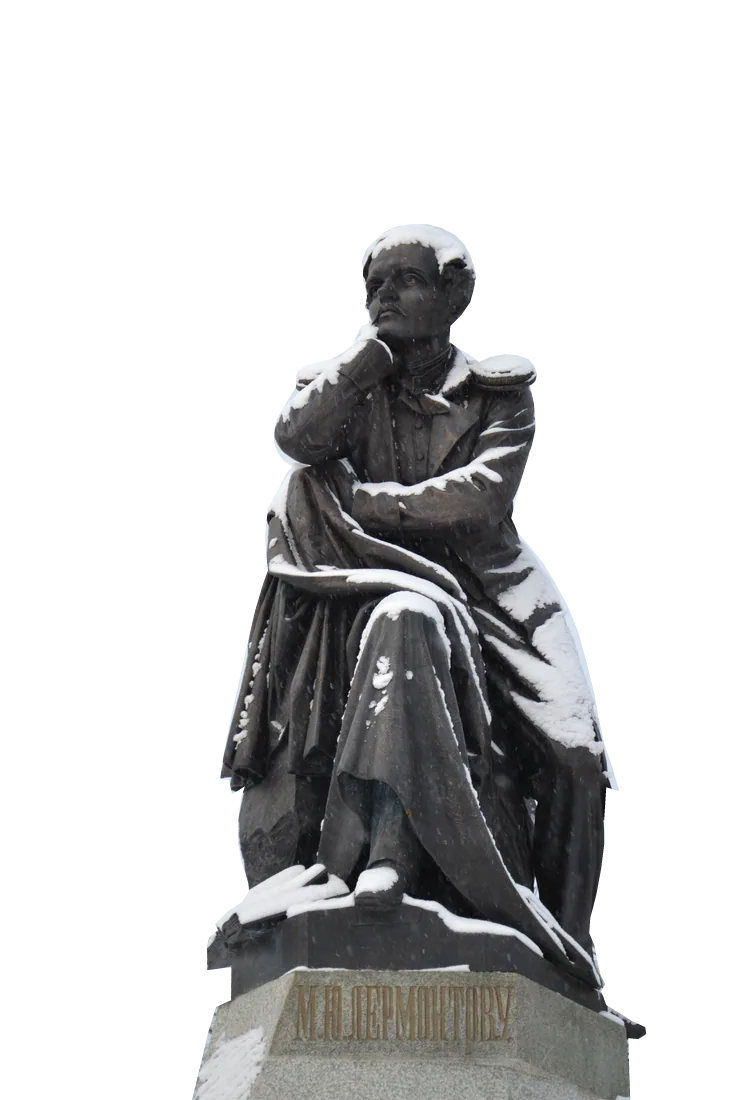
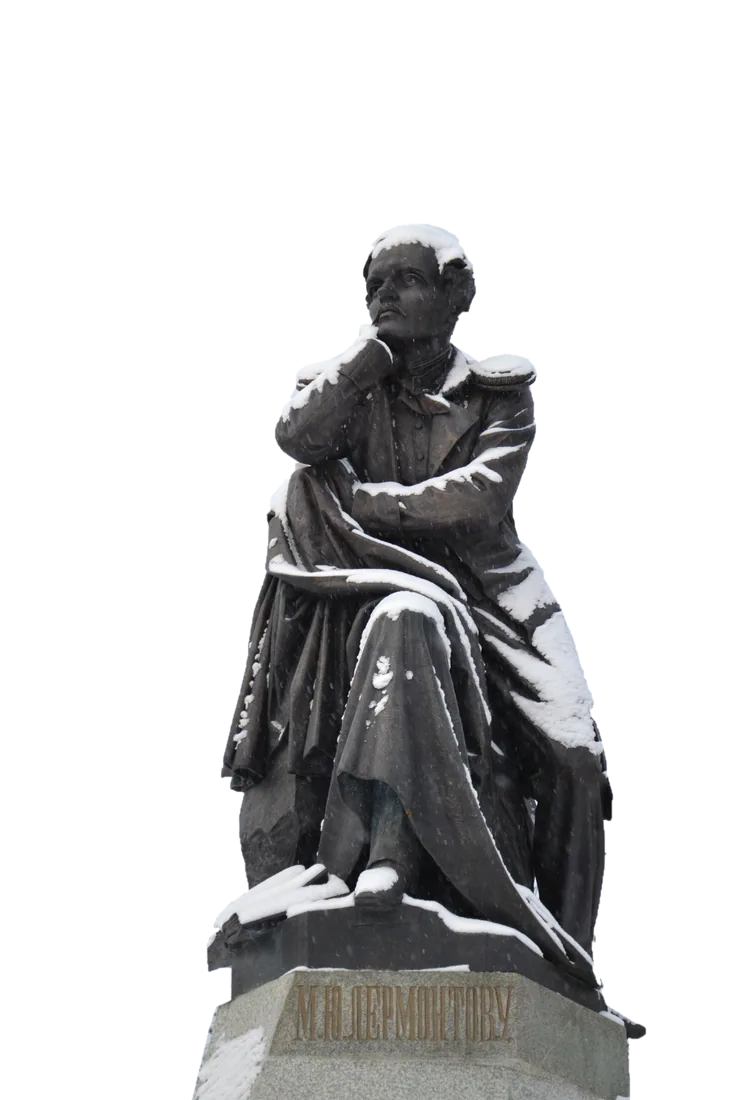
fix(memory-places): refine documentary alpha edges and retain visual QA evidence

diff --git a/src/data/runtime/memoryPlaces.generated.ts b/src/data/runtime/memoryPlaces.generated.ts
@@ -9,7 +9,7 @@ export const memoryPlaceRevisions: Readonly<Record<string, string>> = {
   "fyodor-tyutchev": "e0f845a2dc9b6415",
   "konstantin-simonov": "cb820dea3254b364",
   "marina-tsvetaeva": "ec7da4cb46acb67e",
-  "mikhail-lermontov": "103aecbf094efa83",
+  "mikhail-lermontov": "345a95e5f60246f8",
   "nikolay-gumilev": "ec38a4141f941788",
   "nikolay-nekrasov": "bc77067fbd46be64",
   "osip-mandelstam": "34088526daf42111",
